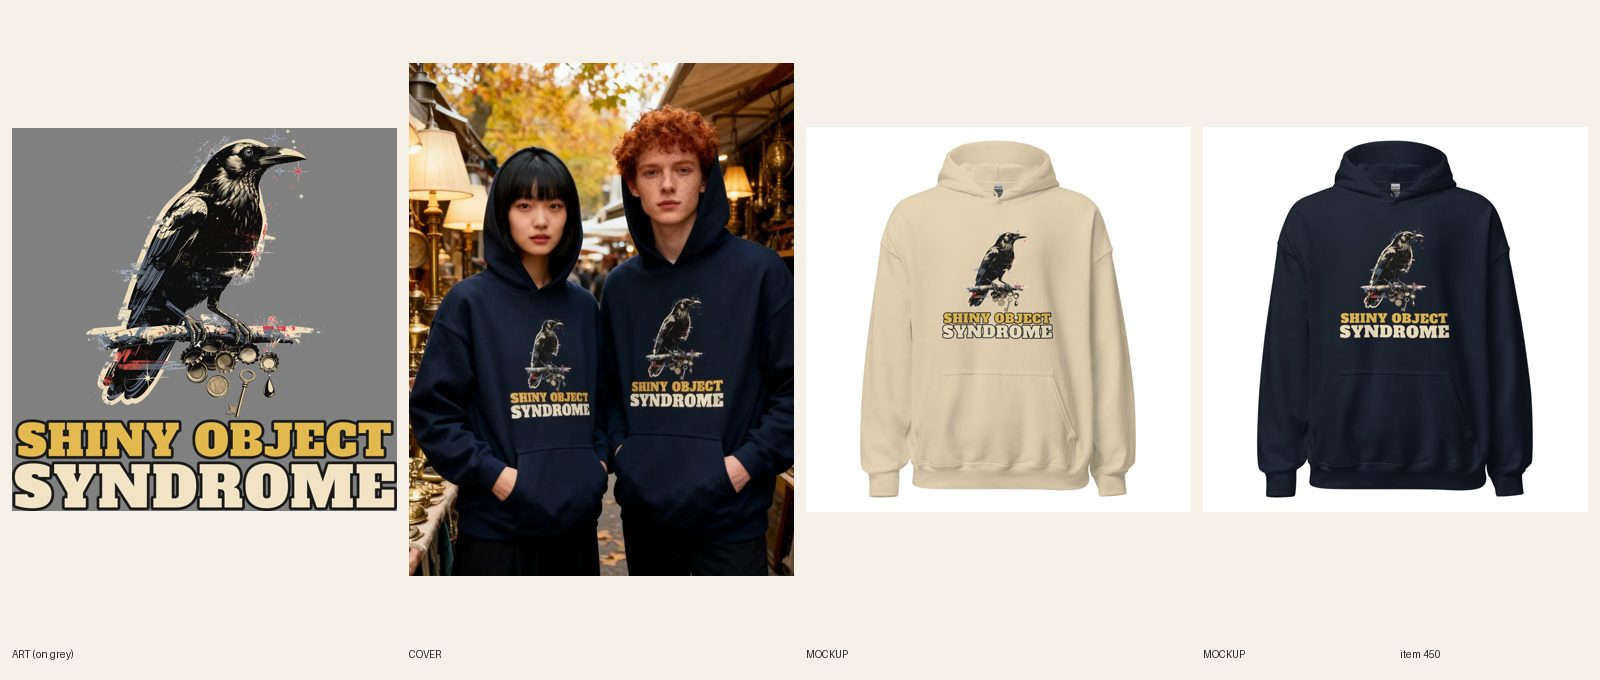
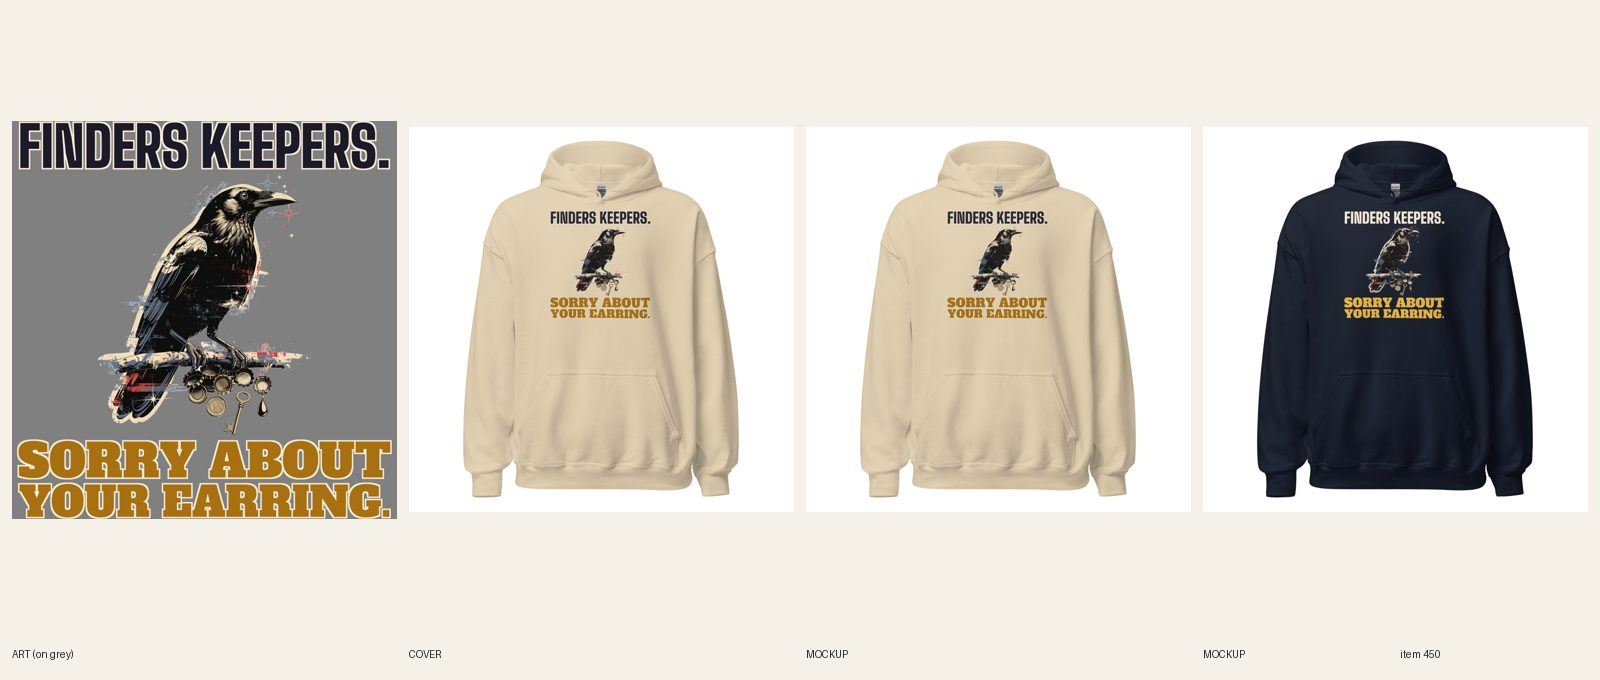
[C] review 450 (redo)
Claude-Session: https://claude.ai/code/session_01CCHcDj8LcJJ8qUPtKE3cvn

Changed region(s): [[0.0, 0.0926, 0.5, 0.8647], [0.8125, 0.3088, 0.9062, 0.525], [0.5625, 0.3088, 0.6562, 0.525]]

diff --git a/designs/c450/make.py b/designs/c450/make.py
@@ -1,0 +1,10 @@
+import sys; sys.path.insert(0,'.')
+from designs.lib import *
+im=Image.open('docs/print-files/450-shiny-object-syndrome.png').convert('RGBA'); W=im.width
+art=im.crop((0,0,W,2545)); art=art.crop(art.getbbox()); art=art.resize((int(art.width*0.9),int(art.height*0.9)),Image.LANCZOS)
+DK=(26,26,40,255); GOLD=(236,184,60,255); DGOLD=(168,112,16,255)
+for tag,c1,k1,c2,k2,bg in (('sand',DK,CREAM,DGOLD,CREAM,(214,196,160,255)),('navy',CREAM,DK,GOLD,DK,(38,50,88,255))):
+    h1=line("FINDERS KEEPERS.",'big',0.97,W,c1,k1,kw=27)
+    pa=line("SORRY ABOUT",'alfa',0.97,W,c2,k2,kw=27); pb=line("YOUR EARRING.",'alfa',0.97,W,c2,k2,kw=27)
+    print(tag,'headline px',h1.width,'punch px',pa.width,pb.width,'heights',h1.height,pa.height,pb.height)
+    out=lockup(art,W,[h1],[pa,pb],f'450-v2-earring-{tag}',{tag:bg}); print(out.size,out.height/out.width)

diff --git a/docs/pipeline/450-crow-hoodie-shiny-object-syndrome.md b/docs/pipeline/450-crow-hoodie-shiny-object-syndrome.md
@@ -1,4 +1,4 @@
-status: BUILDING [C] 2026-10-20 07:57
+status: REVIEW
 lane: C
 type: new
 id: 450
@@ -43,3 +43,5 @@ kd: 33
 - 2026-10-18 02:12 UTC builder [C]: REDO done (director's one extra cover call, fal $0.06, Navy front mockup as --design, 'both wear the same navy pullover hoodie, hoods UP, faces visible, hands in the pouch'). Both people now wear the hooded pullover with the hood clearly raised (no crewneck on either); SHINY OBJECT SYNDROME and the crow read cleanly on both chests, no hair, hand or hood over any word, so no composite was needed. Same two people as before (woman now has a black bob with bangs under the hood; registry rows unchanged). Alt unchanged (Man and woman in matching navy crow hoodies). Sheet regenerated.
 - 2026-10-18 02:45 UTC director: LIVE (ACTIVE + published, audit PASS). Both people now in the hooded pullover, hoods up.
 - 2026-10-18 17:22 UTC director: QUALITY RESET grade C (new line + type), REDO. The product stays ACTIVE (same handle, URL, title keyword). 1. Line (R3.12, quality-reset 'Lines'): "SHINY OBJECT / SYNDROME": Stock phrase drawn literally (crow with trinkets); describes picture, no twist. Write 5 candidates, keep the one a stranger laughs at in 3 seconds without backstory; kill lines that only describe the picture; if none of the 5 is funny, PARK it. 2. Quality reset type bar (docs/backlog/quality-reset.md, 'The new bar'): headline at least 90% of the art width, heavy, colors pulled from the art; second line at least 45% of the headline's height, never a thin script on a dark or mid garment; use the lettering as a shape (arch, stacked lockup, words breaking into the art), not a plain bar above and a script line below; no font used on more than 1 in 6 of the last 30 designs. 3. Keep the art if it carries the new line, else one new illustration (R4/R5). New print means a new cover per R6.10, copy line one rewritten for the new joke (R8.3), and a fresh review sheet (R7.7). While quality-reset.md says PAUSED, only lane A builds, and only the samples step 2 names.
+- 2026-10-20 08:03 UTC builder [C]: COVER HOLD: added the 9 line-redo handles that still had the old model cover to src/data/retired-covers.json (#323 #495 #637 #448 #436 #341 #489 #334 #465); #450 was already listed. astro build passes.
+- 2026-10-20 08:03 UTC builder [C]: REDO new line + type (grade C; title card 7i done; 3rd redo, cover work stays on hold). 5 candidates, compared with Sorry About Your Windshield., Not Cheating. Improving My Lie. and Short Legs, Long Opinions: "FINDERS KEEPERS. / SORRY ABOUT YOUR EARRING." (kept: the crow's hoard has the earring in it, same deadpan as Sorry About Your Windshield.), "SHINY OBJECT SYNDROME" (old), "I'M NOT STEALING. I'M COLLECTING.", "ALLEGEDLY MINE.", "EVERYTHING SHINY IS A SUGGESTION". Same crow-and-hoard art at 90%. Measured ink widths (card 7h): headline FINDERS KEEPERS. 3249 px / punch SORRY ABOUT 3281 px and YOUR EARRING. 3265 px (101% each). Big Shoulders Display Black headline, Alfa Slab One punch. Light-file (R5.3.8): Sand file 1090246352 (headline near-black with a cream keyline, punch dark gold), Navy file 1090246409 (headline cream with a near-black keyline, punch gold); docs/print-files/450-v2-earring-sand.png / -navy.png; print 3370 x 3485, FW 1500 TOP 0, 14... 12/12 relinked (verified on the API before REVIEW). 2 fronts replaced in place, read at phone size. Title set to "Unisex Crow – Finders Keepers, Sorry About Your Earring Hoodie" (handle unchanged; product is ACTIVE), copy + SEO rewritten. Plain product shot. fal $0.

diff --git a/docs/intake-log.md b/docs/intake-log.md
@@ -6,6 +6,7 @@ RUNNING director since 2026-10-20 07:17 UTC
 RUNNING lane B since 2026-10-20 07:29 UTC
 2026-10-20 08:00 UTC — [E] Builder run: redid #608 Women's Pickleball tee (line + type: POLITE SMILE. / PERSONAL VENDETTA., same serene-lady art, Bevan, dark-ink file on 5 light colors, 30/30 synced). REVIEW. fal $0.
 RUNNING lane C since 2026-10-20 07:00 UTC
+2026-10-20 08:03 UTC — [C] Builder run: redid #450 Unisex Crow hoodie (new line + type: FINDERS KEEPERS. / SORRY ABOUT YOUR EARRING., headline 3249 px / punch 3281+3265 px, Big Shoulders + Alfa Slab, same crow art, Sand file 1090246352 + Navy file 1090246409, FW 1500 TOP 0, 12/12 relinked, 2 fronts replaced in place, title + copy + SEO updated); added 9 handles to retired-covers.json. REVIEW. fal $0.
 2026-10-20 07:57 UTC — [C] Builder run: redid #509 Women's National Park zip hoodie (new line + type: I'M NOT SINGLE. / I HAVE A CANYON., headline 3034 px / punch 3096 px, Big Shoulders + Bowlby, same canyon art, Ash file 1090241503 + Navy file 1090241557, BW 1650 BT 225, 12/12 relinked, back mockups replaced, title + copy + SEO updated). REVIEW. fal $0.
 2026-10-20 07:47 UTC — [C] Builder run: redid #442 Men's Chess zip hoodie (new line + type: SORRY ABOUT / YOUR PAWN., headline 3313 px / punch 3354 px, Alfa Slab, same knight art, Ash file 1090239213 + Navy file 1090239262, BW 1650 BT 225, 12/12 relinked, back mockups replaced, title + copy + SEO updated). REVIEW. fal $0.
 2026-10-20 07:40 UTC — [C] Builder run: redid #465 Unisex Lawyer hoodie (new line + type: THIS NAP IS / BILLABLE., headline 3185 px / punch 3195 px, Bevan + Alfa Slab, same sleeping-lawyer art, Sand file 1090236655 + Navy file 1090236679, FW 1500 TOP 0, 12/12 relinked, 2 fronts replaced in place, copy + SEO updated). REVIEW. fal $0.
